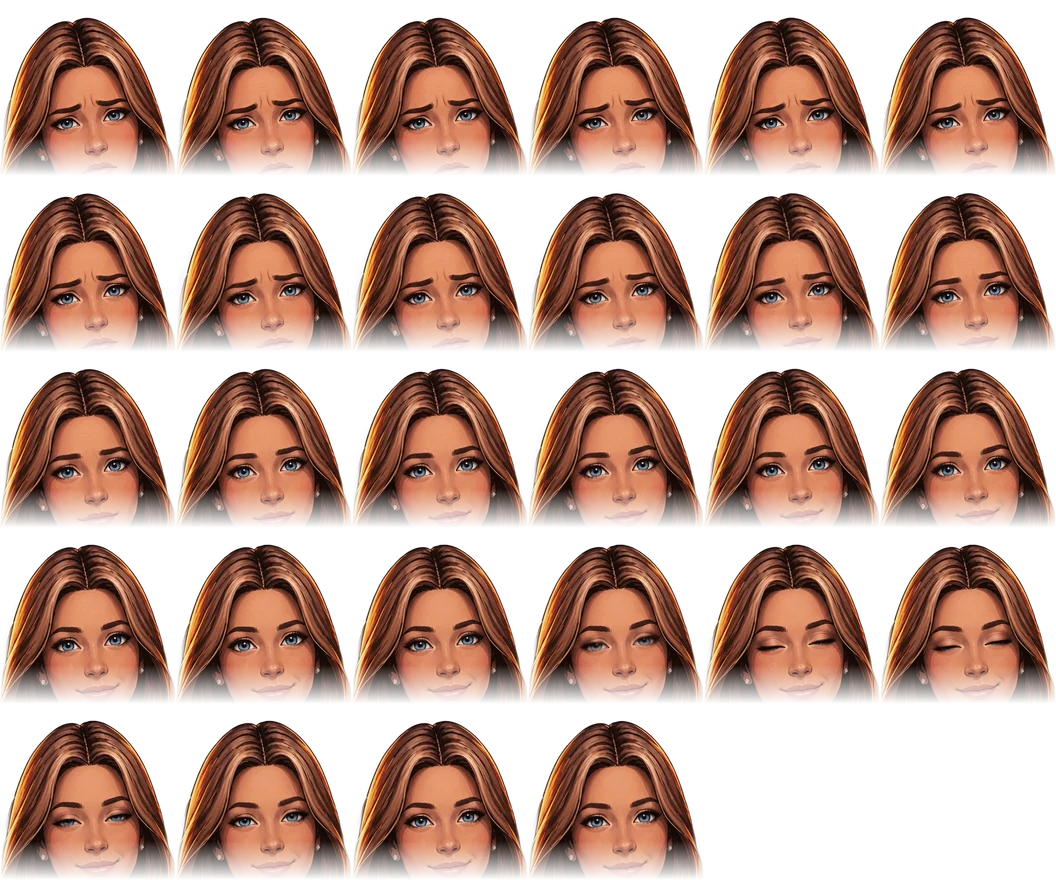
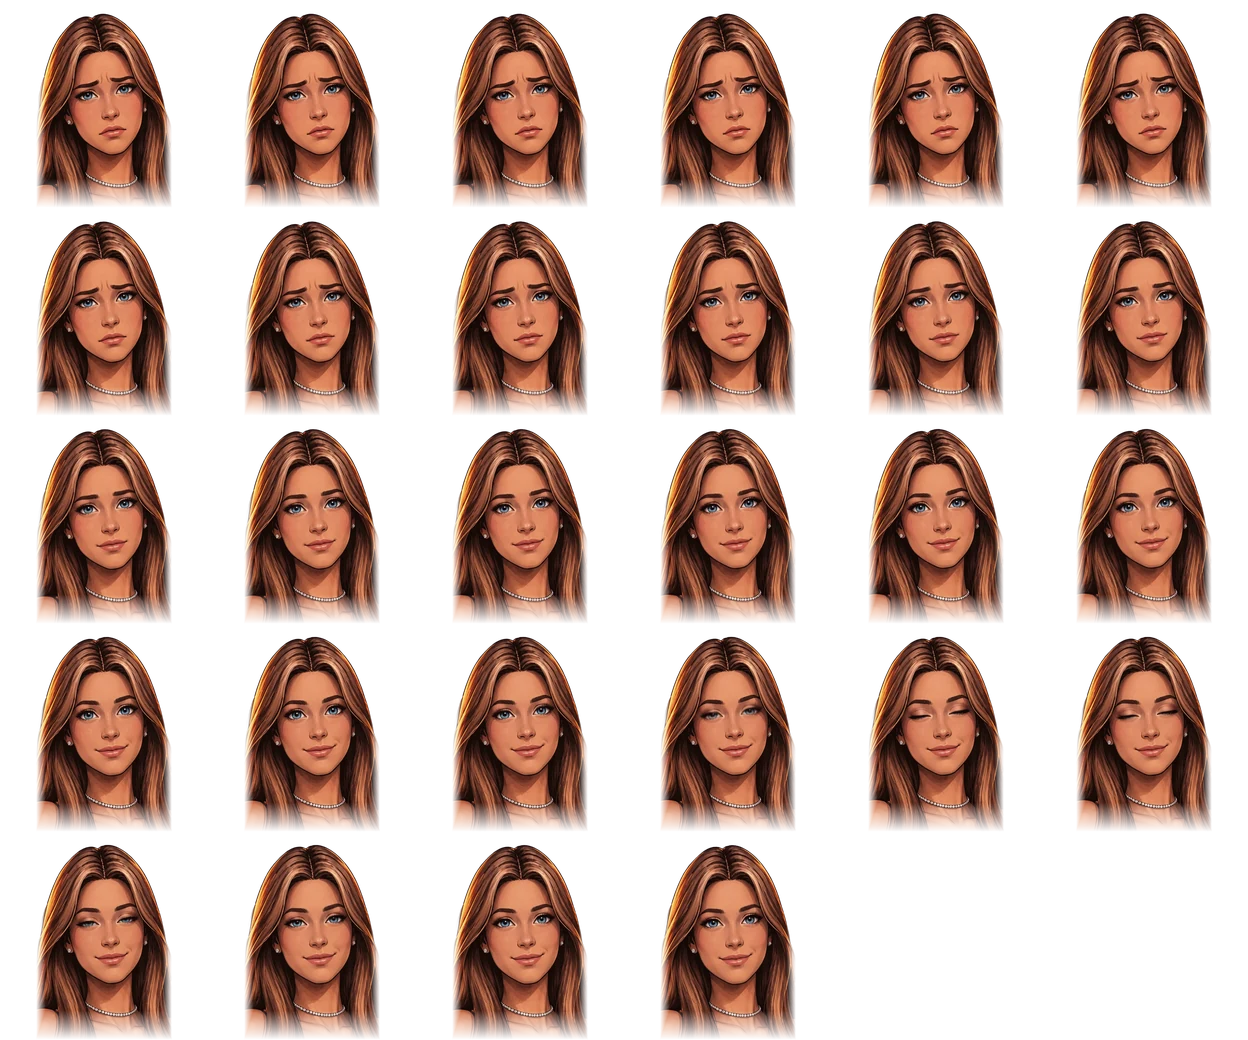
0.8.3: Marisol face-to-shoulders cutouts at bigger size, swipe-to-close preview fix
Claude-Session: https://claude.ai/code/session_01SdV8U4AGtTVgzmNSCq95pw

diff --git a/ios/Pockit/Sources/FilePreviewer.swift b/ios/Pockit/Sources/FilePreviewer.swift
@@ -27,11 +27,16 @@ final class FilePreviewer: NSObject, QLPreviewControllerDataSource, UIGestureRec
         guard let v = shown?.view else { return }
         let ty = g.translation(in: v).y
         let progress = min(1, abs(ty) / 300)
+        func scrolls(_ view: UIView) -> [UIScrollView] { ((view as? UIScrollView).map { [$0] } ?? []) + view.subviews.flatMap { scrolls($0) } }
         switch g.state {
+        case .began:
+            // la foto no se arrastra por dentro mientras se cierra
+            scrolls(v).forEach { $0.panGestureRecognizer.isEnabled = false; $0.panGestureRecognizer.isEnabled = true; $0.isScrollEnabled = false }
         case .changed:
             v.transform = CGAffineTransform(translationX: 0, y: ty).scaledBy(x: 1 - progress * 0.12, y: 1 - progress * 0.12)
             v.alpha = 1 - progress * 0.5
         case .ended, .cancelled:
+            scrolls(v).forEach { $0.isScrollEnabled = true }
             let vy = g.velocity(in: v).y
             if abs(ty) > 110 || abs(vy) > 900 {
                 UIView.animate(withDuration: 0.22, animations: {
@@ -53,15 +58,17 @@ final class FilePreviewer: NSObject, QLPreviewControllerDataSource, UIGestureRec
             guard let p = g as? UIPanGestureRecognizer, let v = p.view else { return true }
             let vel = p.velocity(in: v)
             if abs(vel.y) <= abs(vel.x) * 1.2 { return false }
-            // si la foto está con zoom, el pellizco/arrastre es de la foto
-            func zoomed(_ view: UIView) -> Bool {
-                if let sc = view as? UIScrollView, sc.zoomScale > sc.minimumZoomScale + 0.01 { return true }
-                return view.subviews.contains { zoomed($0) }
+            // 0.8.3: solo si la foto de verdad se puede mover (con zoom, el contenido es más grande que la pantalla)
+            func scrollable(_ view: UIView) -> Bool {
+                if let sc = view as? UIScrollView, sc.isScrollEnabled,
+                   sc.contentSize.height > sc.bounds.height + 2 || sc.contentSize.width > sc.bounds.width + 2,
+                   sc.zoomScale > sc.minimumZoomScale + 0.01 { return true }
+                return view.subviews.contains { scrollable($0) }
             }
-            return !zoomed(v)
+            return !scrollable(v)
         }
     }
-    nonisolated func gestureRecognizer(_ g: UIGestureRecognizer, shouldRecognizeSimultaneouslyWith other: UIGestureRecognizer) -> Bool { false }
+    nonisolated func gestureRecognizer(_ g: UIGestureRecognizer, shouldRecognizeSimultaneouslyWith other: UIGestureRecognizer) -> Bool { true }
 
     /// Guarda bytes que mandó el chat (base64) en un archivo temporal y lo abre.
     func show(base64: String, name: String, mime: String) {

diff --git a/ios/Pockit/Sources/AvatarView.swift b/ios/Pockit/Sources/AvatarView.swift
@@ -14,14 +14,16 @@ struct AvatarView: View {
     @State private var breathe = false
 
     var body: some View {
-        // 0.7.0: solo su cara (recortada, sin círculo ni atardecer). 0.8.2: recorte más amplio (se ve el pelo) y 40% menos zoom.
+        // 0.7.0: solo su cara (recortada, sin círculo ni atardecer). 0.8.3: cara hasta los hombros, del tamaño de antes.
         Image(uiImage: face.frame)
             .resizable()
             .interpolation(.high)
             .scaledToFit()
-            .frame(width: size * 0.55, height: size * 0.55)
+            .frame(width: size * 1.3, height: size * 1.3)
             .shadow(color: .black.opacity(0.35), radius: 6, y: 3)
             .scaleEffect(breathe ? 1.02 : 1.0)
+            // 0.8.3: cara y hombros; lo que sobra baja detrás del nombre (se desvanece abajo)
+            .offset(y: size * 0.14)
             .frame(width: size, height: size)
             .overlay(alignment: .bottomTrailing) {
                 if spoilerDot {
